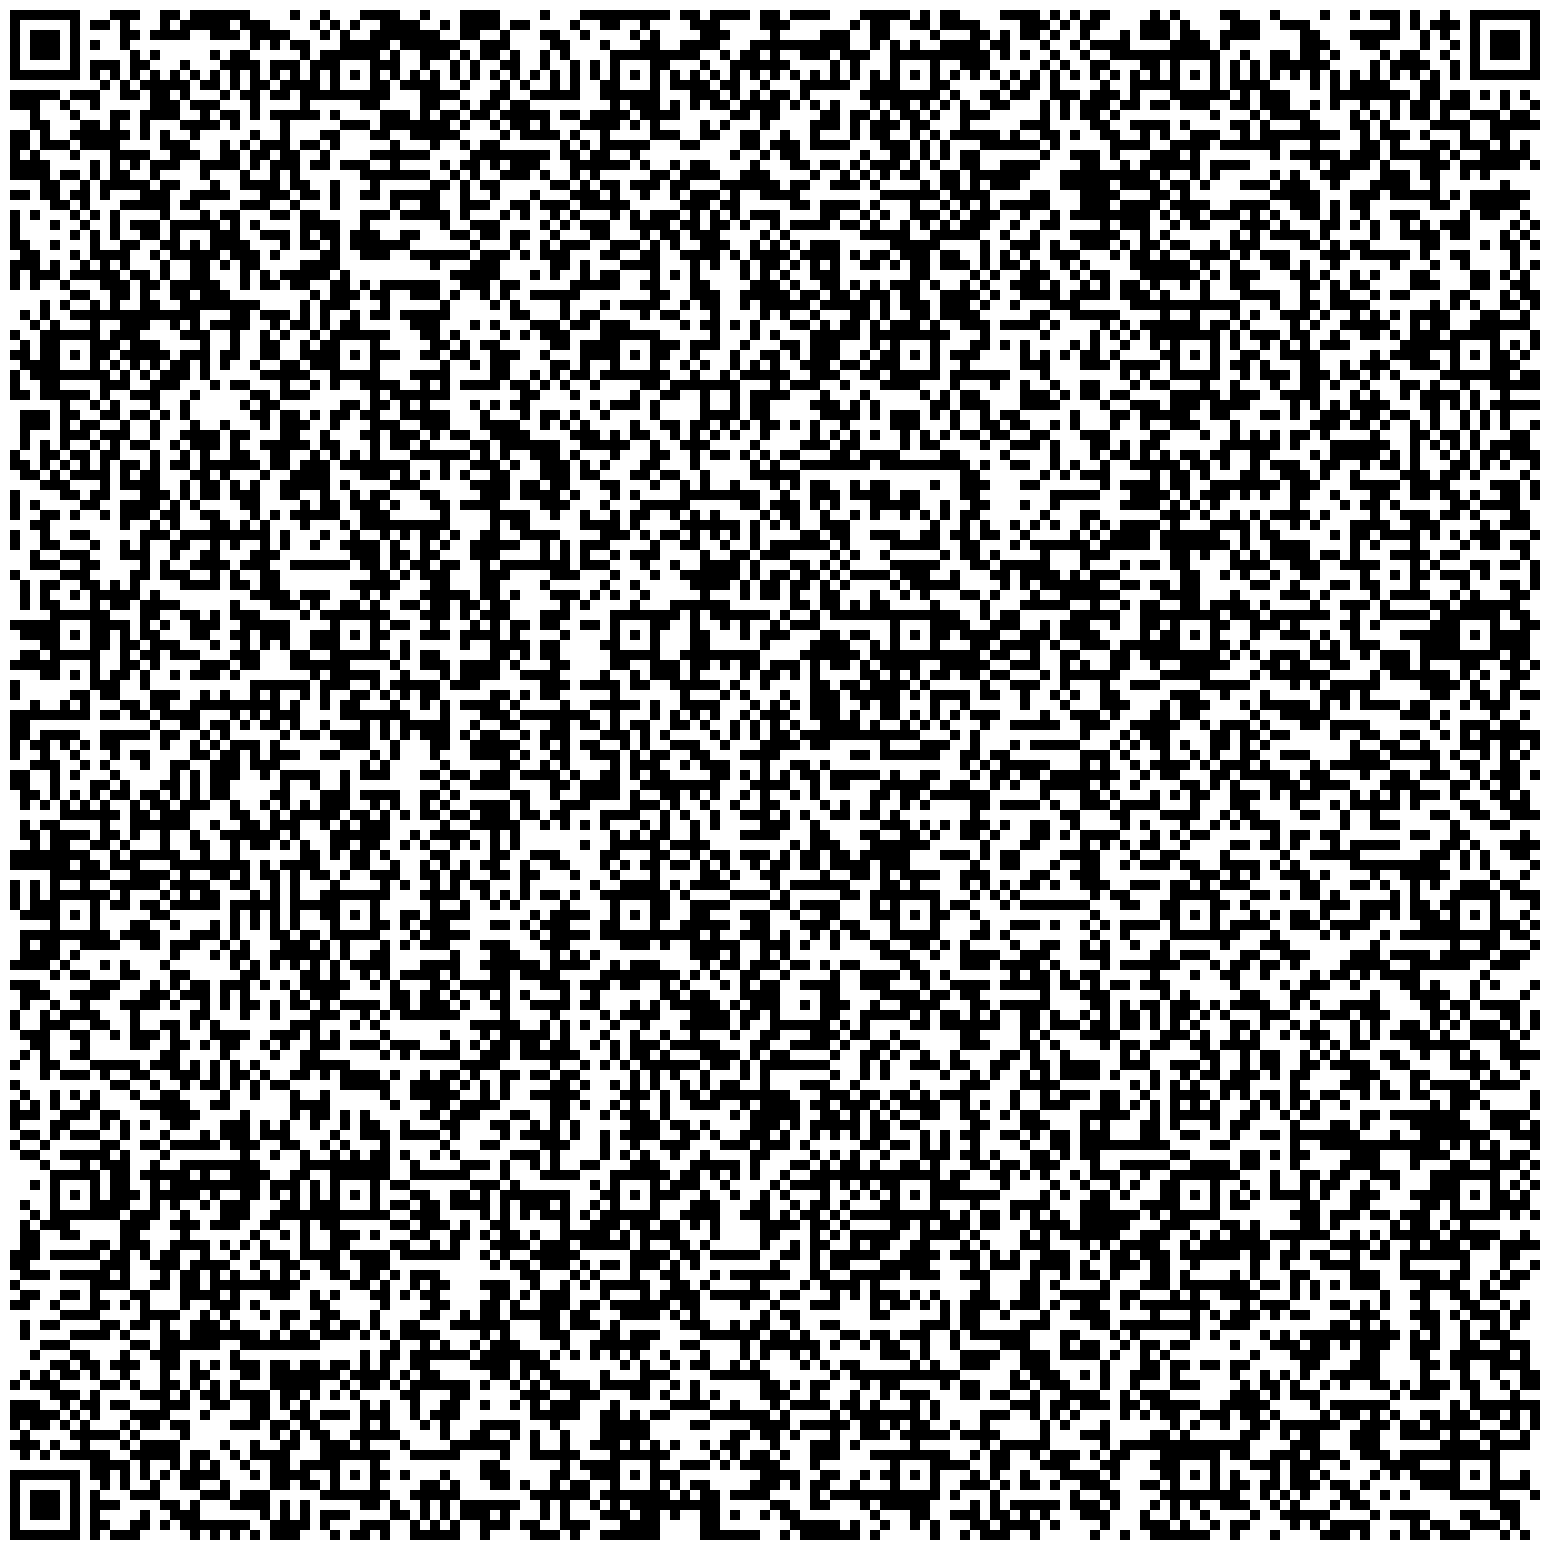
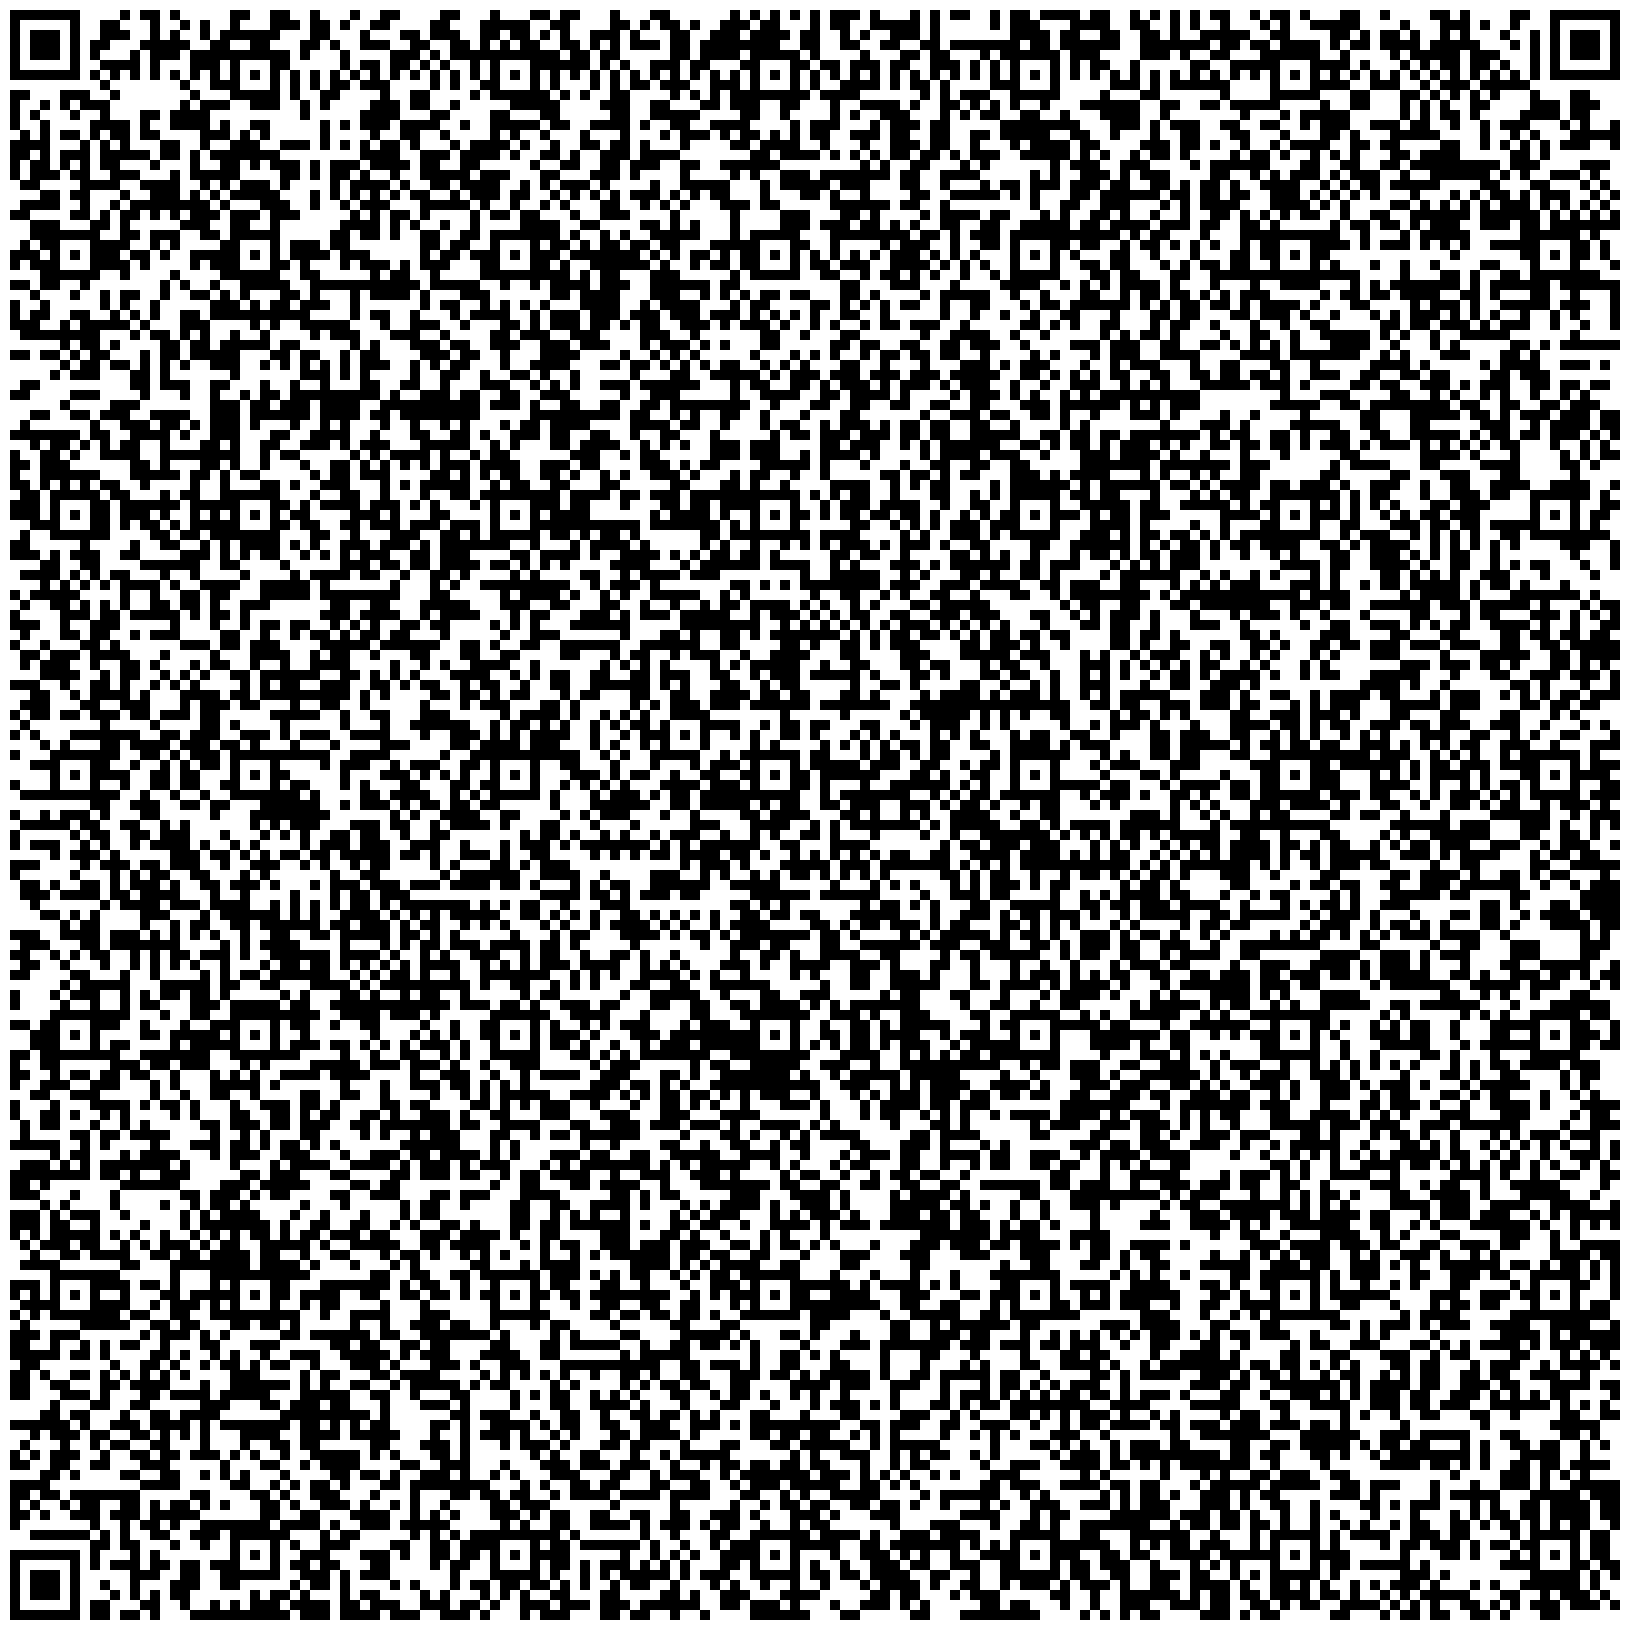
v5: fix QR — regenerate from actual JSON (was hardcoded old URL)

diff --git a/README.md b/README.md
@@ -15,7 +15,7 @@
 Автор **не призывает к обходу блокировок**, установленных в соответствии с законодательством РФ. Использование материала — на усмотрение и риск читателя, в соответствии с действующим законодательством РФ. По состоянию на дату публикации сам факт использования VPN физическим лицом административной ответственностью в КоАП РФ не предусмотрен. Текст не является юридической консультацией; за актуальным мнением обращайтесь к юристу.
 
 <p align="center">
-  <img src="incy-routing-qr.png" width="360" alt="QR — импорт профиля маршрутизации v4 в INCY">
+  <img src="incy-routing-qr.png" width="360" alt="QR — импорт профиля маршрутизации v5 в INCY">
 </p>
 
 **Сканируй этот QR камерой INCY — профиль «Socials via VPN» добавится и сразу активируется.** Подробности — в [Шаге 3](#шаг-3-добавь-готовый-профиль-маршрутизации-ключевой-шаг) ниже.

diff --git a/README-EN.md b/README-EN.md
@@ -15,7 +15,7 @@ The author is aware that the legislation of the Russian Federation regulates the
 The author **does not call for circumventing blocks** established in accordance with the legislation of the Russian Federation. Use of this material is at the reader's own discretion and risk, in accordance with the current legislation of the Russian Federation. As of the date of publication, the mere fact of using a VPN by an individual is not subject to administrative liability under the Code of Administrative Offences. This text is not legal advice; for an up-to-date opinion, consult a lawyer.
 
 <p align="center">
-  <img src="incy-routing-qr.png" width="360" alt="QR v4 — import the routing profile into INCY">
+  <img src="incy-routing-qr.png" width="360" alt="QR v5 — import the routing profile into INCY">
 </p>
 
 **Scan this QR with the INCY camera — the "Socials via VPN" profile will be added and activated immediately.** Details in [Step 3](#step-3-add-the-ready-made-routing-profile-key-step) below.
